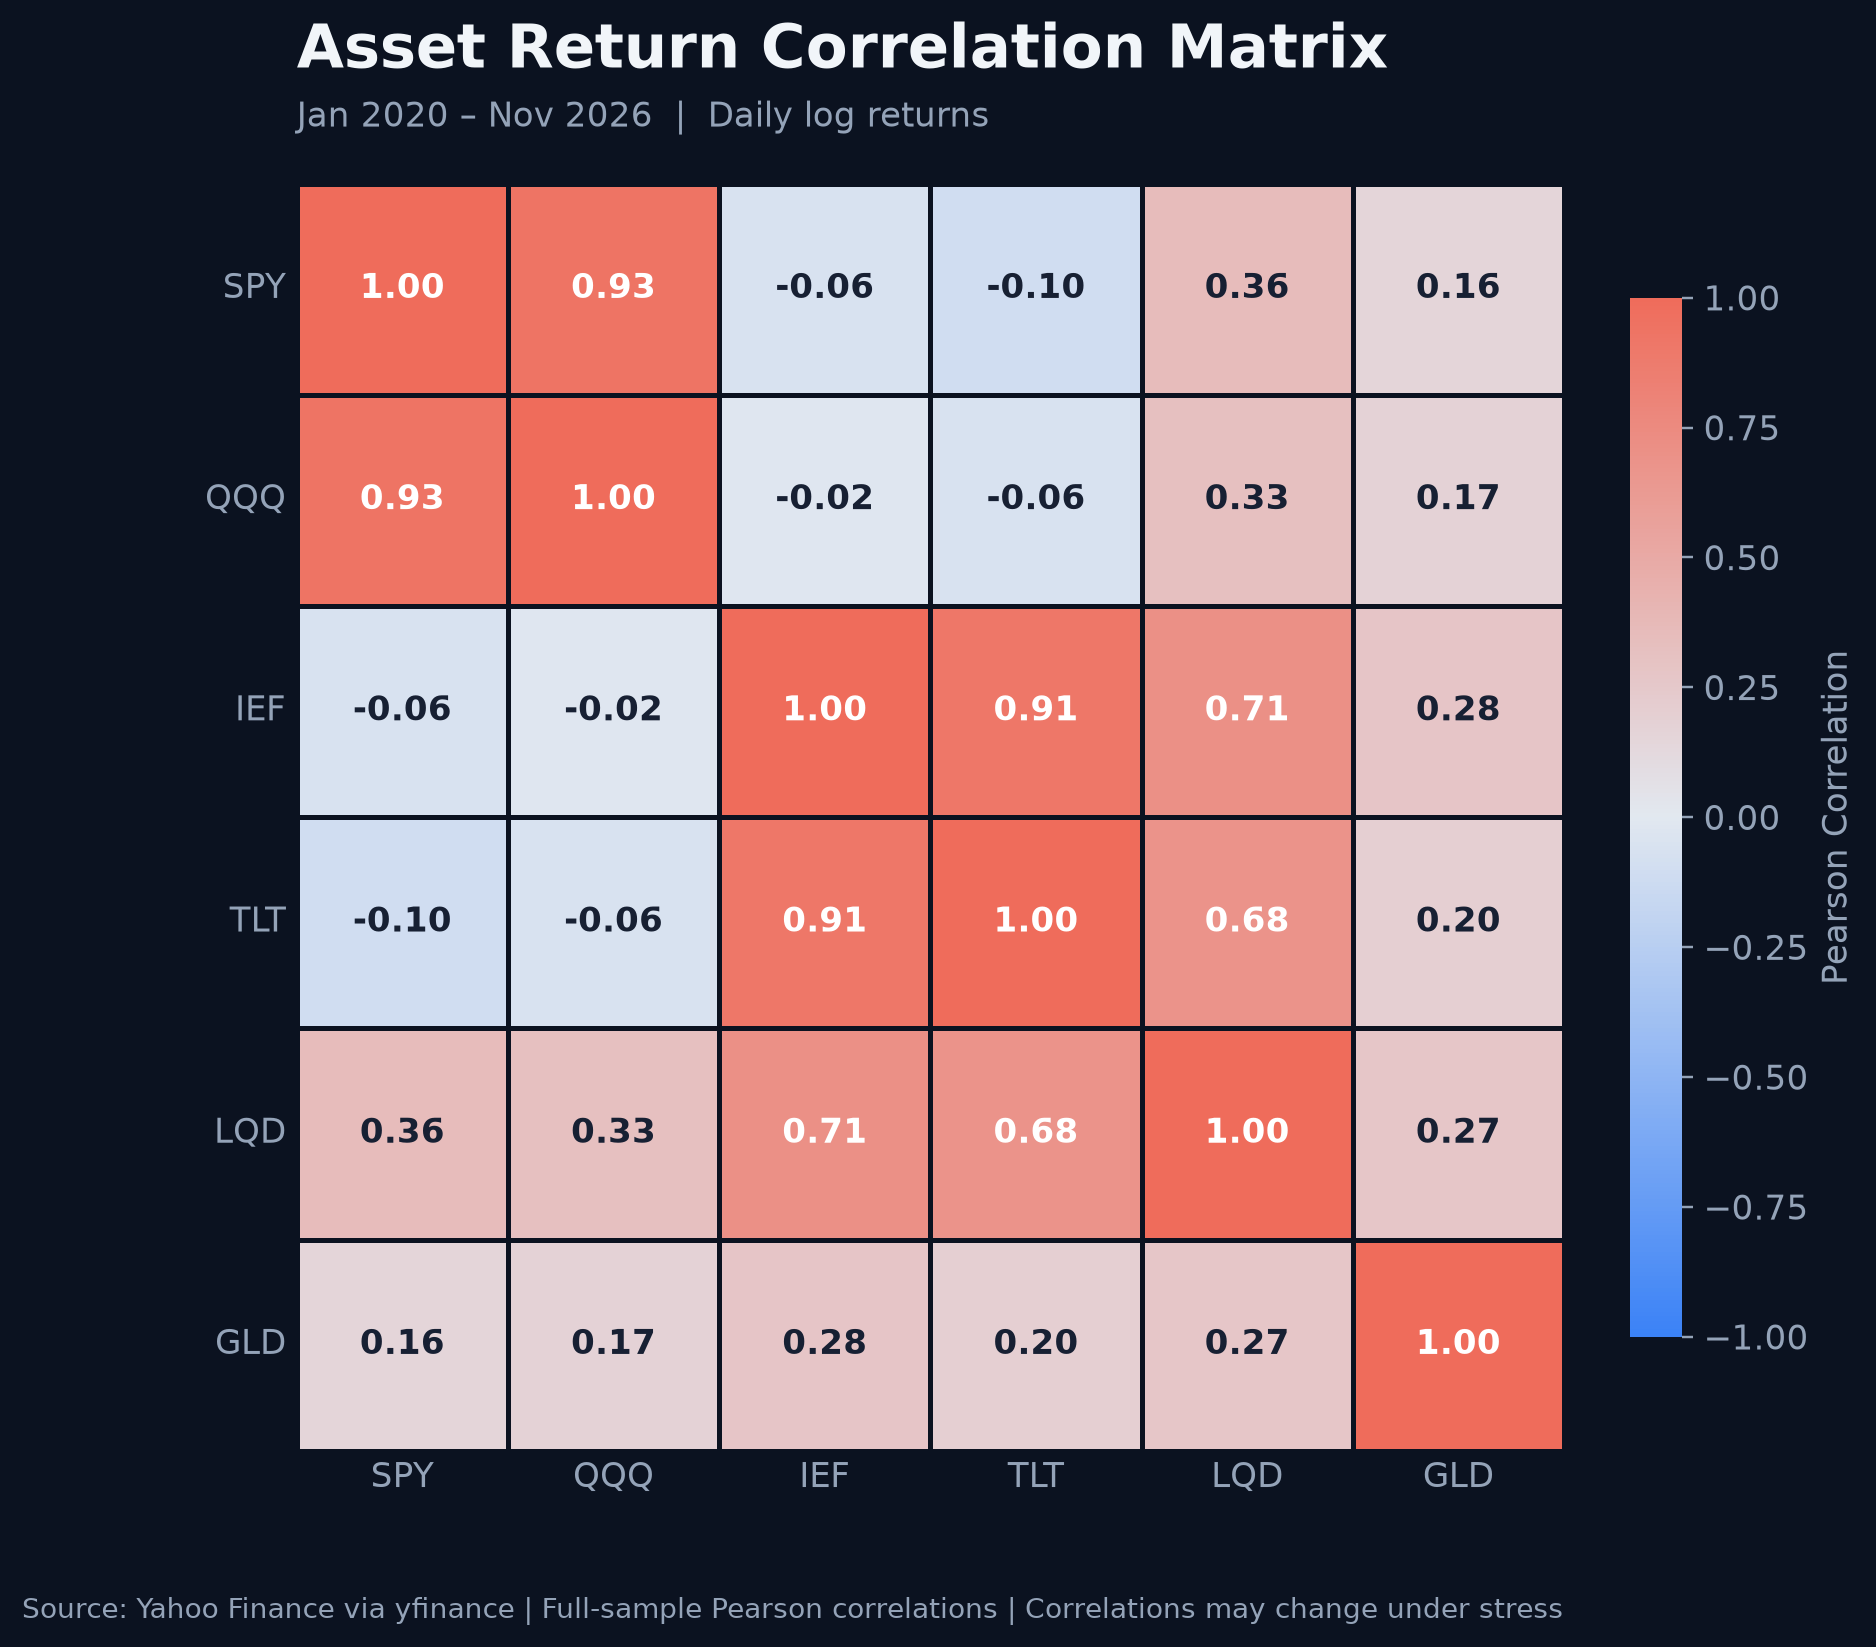
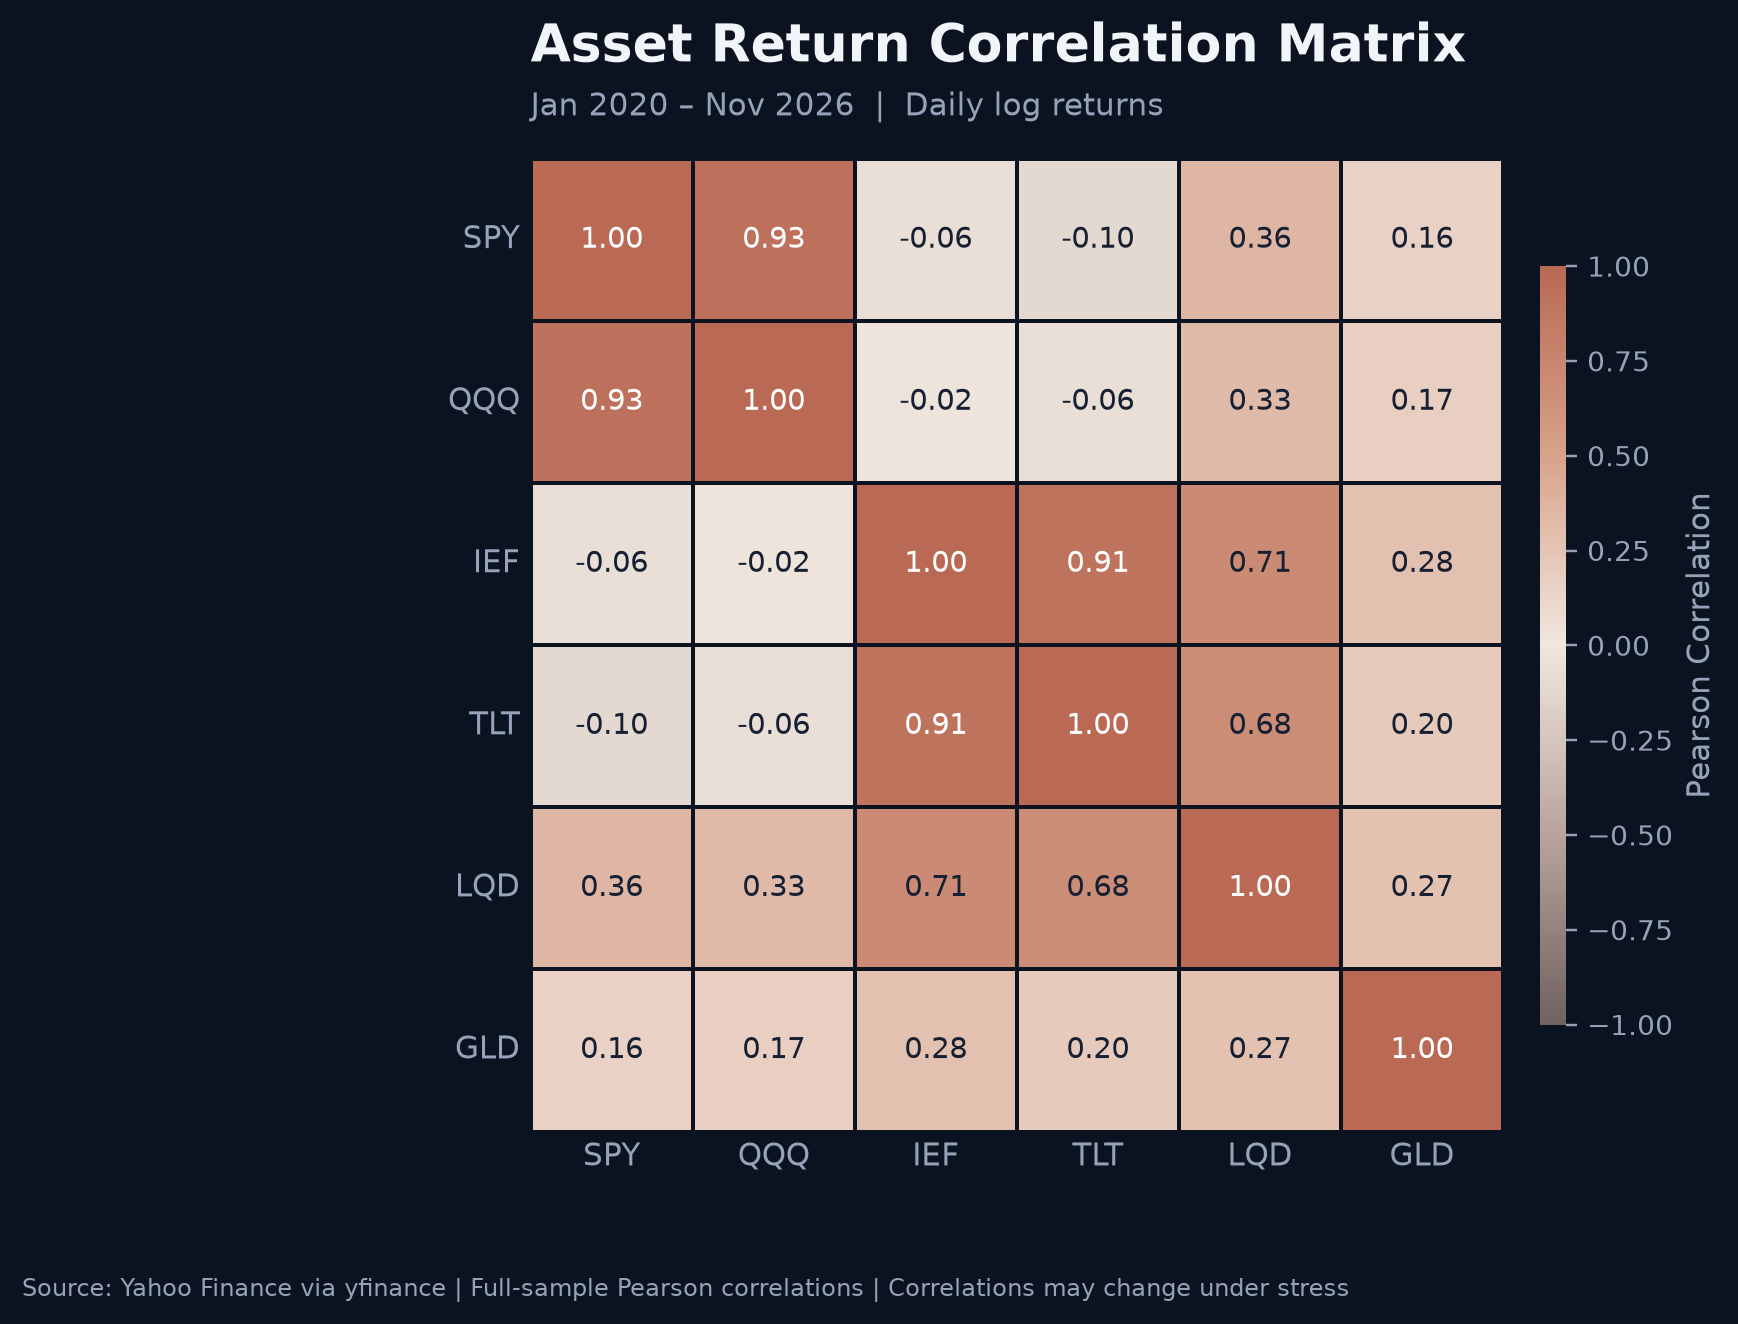
Enhance correlation heatmap design and layout

diff --git a/01-portfolio-risk-simulation/exploratory_analysis.py b/01-portfolio-risk-simulation/exploratory_analysis.py
@@ -212,13 +212,28 @@ plt.close(fig)
 # 6. Figure 02: Correlation heatmap
 # --------------------------------------------------
 
+from matplotlib.colors import LinearSegmentedColormap, TwoSlopeNorm
+
+# Warm, muted institutional palette
 cmap = LinearSegmentedColormap.from_list(
-    "risk_correlation",
-    ["#3B82F6", "#E2E8F0", "#EF6C5B"],
+    "warm_correlation",
+    [
+        "#6F625F",  # -1.0: Dark taupe
+        "#B8A49D",  # -0.5: Warm gray
+        "#F0E7DE",  #  0.0: Warm ivory
+        "#D8A28B",  # +0.5: Soft terracotta
+        "#B96954",  # +1.0: Muted rust
+    ],
     N=256,
 )
 
-fig, ax = plt.subplots(figsize=(10, 8))
+norm = TwoSlopeNorm(
+    vmin=-1,
+    vcenter=0,
+    vmax=1,
+)
+
+fig, ax = plt.subplots(figsize=(8.5, 6.5))
 fig.patch.set_facecolor(BG)
 ax.set_facecolor(PANEL)
 
@@ -227,71 +242,92 @@ heatmap = sns.heatmap(
     annot=True,
     fmt=".2f",
     cmap=cmap,
-    vmin=-1,
-    vmax=1,
-    center=0,
+    norm=norm,
     square=True,
-    linewidths=1.5,
+    linewidths=0.8,
     linecolor=BG,
     annot_kws={
-        "fontsize": 11,
-        "fontweight": "bold",
+        "fontsize": 9.5,
+        "fontweight": "normal",
     },
     cbar_kws={
         "label": "Pearson Correlation",
-        "shrink": 0.82,
-        "pad": 0.035,
+        "shrink": 0.78,
+        "pad": 0.025,
+        "fraction": 0.035,
+        "aspect": 30,
     },
     ax=ax,
 )
 
-# Adjust annotation contrast for readability
+# Improve annotation contrast
 for text_obj in heatmap.texts:
     value = float(text_obj.get_text())
     text_obj.set_color(
-        "#FFFFFF" if abs(value) > 0.65 else "#172033"
+        "#FFFFFF" if value > 0.75 else "#172033"
     )
 
+# Title
 ax.set_title(
     "Asset Return Correlation Matrix",
-    fontsize=20,
+    fontsize=17,
     fontweight="bold",
     loc="left",
-    pad=38,
+    pad=32,
+    color=TEXT,
 )
 
+# Subtitle
 ax.text(
-    0, 1.045,
+    0,
+    1.045,
     f"{period_label}  |  Daily log returns",
     transform=ax.transAxes,
     color=MUTED,
-    fontsize=11,
+    fontsize=10,
 )
 
-ax.tick_params(axis="both", length=0, labelsize=11)
+# Axis labels
+ax.tick_params(
+    axis="both",
+    length=0,
+    labelsize=10,
+    colors=MUTED,
+)
+
 ax.set_xticklabels(TICKERS, rotation=0)
 ax.set_yticklabels(TICKERS, rotation=0)
 
+# Colorbar styling
 cbar = heatmap.collections[0].colorbar
-cbar.ax.yaxis.label.set_color(MUTED)
-cbar.ax.tick_params(colors=MUTED)
 
+cbar.ax.yaxis.label.set_color(MUTED)
+cbar.ax.yaxis.label.set_size(10)
+cbar.ax.tick_params(
+    colors=MUTED,
+    labelsize=9,
+)
+
+# Footer
 fig.text(
-    0.08, 0.035,
+    0.08,
+    0.035,
     "Source: Yahoo Finance via yfinance | "
     "Full-sample Pearson correlations | "
     "Correlations may change under stress",
     color=MUTED,
-    fontsize=9,
+    fontsize=8,
 )
 
+# Compact layout
 fig.subplots_adjust(
-    left=0.08,
-    right=0.94,
-    top=0.85,
-    bottom=0.13,
+    left=0.12,
+    right=0.92,
+    top=0.83,
+    bottom=0.15,
 )
 
+# Save
 fig.savefig(
     FIGURES_DIR / "02_asset_correlation_heatmap.png",
     dpi=220,
